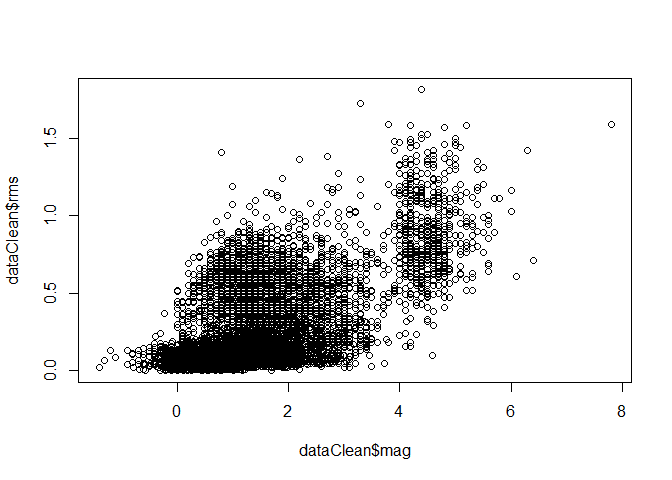
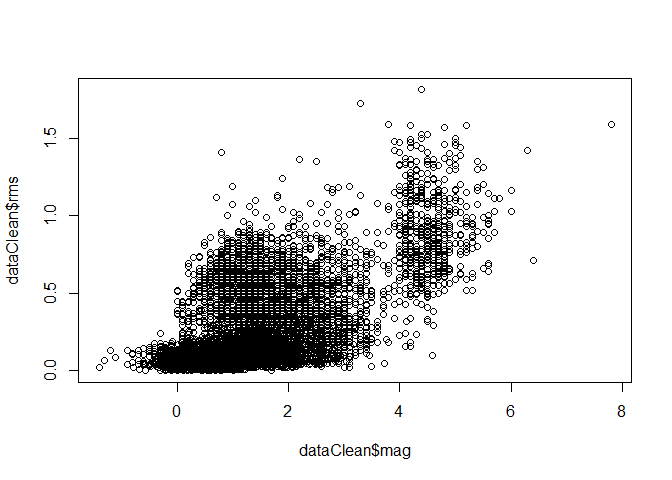
added summary and recommendations

diff --git a/README.md b/README.md
@@ -6,34 +6,34 @@ Data Exploration:
 
 ### lets check the head of the dataset
 
-    ##                       time latitude longitude  depth  mag magType nst gap
-    ## 1 2016-03-27T16:18:29.180Z 33.40767 -116.6085   5.46 0.61      ml  23  82
-    ## 2 2016-03-27T16:04:05.000Z 59.54310 -152.8073  69.40 1.60      ml  NA  NA
-    ## 3 2016-03-27T16:00:59.740Z 36.01450 -120.5742   2.74 0.84      md  12 124
-    ## 4 2016-03-27T15:56:28.000Z 63.06750 -151.7164   1.70 1.40      ml  NA  NA
-    ## 5 2016-03-27T15:48:27.820Z 14.99510  -94.6132  29.47 4.90      mb  NA 153
-    ## 6 2016-03-27T15:42:20.000Z 59.75310 -153.1117 104.60 2.90      ml  NA  NA
-    ##      dmin  rms net         id                  updated
-    ## 1 0.06836 0.11  ci ci37323479 2016-03-27T16:23:10.676Z
-    ## 2      NA 0.72  ak ak13105204 2016-03-27T16:36:35.528Z
-    ## 3 0.03087 0.05  nc nc72613510 2016-03-27T16:30:06.806Z
-    ## 4      NA 0.58  ak ak13105202 2016-03-27T16:36:36.772Z
-    ## 5 2.70700 0.70  us us20005cqq 2016-03-27T16:08:26.742Z
-    ## 6      NA 0.57  ak ak13104206 2016-03-27T16:37:23.504Z
-    ##                                      place       type horizontalError
-    ## 1             14km N of Warner Springs, CA earthquake            0.22
-    ## 2         60km WSW of Anchor Point, Alaska earthquake            0.40
-    ## 3          23km SW of Coalinga, California earthquake            0.39
-    ## 4            116km NW of Talkeetna, Alaska earthquake            0.50
-    ## 5 137km S of San Francisco del Mar, Mexico earthquake            8.60
-    ## 6           71km W of Anchor Point, Alaska earthquake            0.60
-    ##   depthError magError magNst    status locationSource magSource
-    ## 1       0.57    0.106     18 automatic             ci        ci
-    ## 2       0.60       NA     NA automatic             ak        ak
-    ## 3       0.99    0.440      5 automatic             nc        nc
-    ## 4       0.50       NA     NA automatic             ak        ak
-    ## 5       4.20    0.030    347  reviewed             us        us
-    ## 6       0.60       NA     NA automatic             ak        ak
+    ##                       time latitude longitude  depth  mag magType nst
+    ## 1 2016-03-29T08:30:59.000Z 60.26910 -141.7849  14.60 2.40      ml  NA
+    ## 2 2016-03-29T08:27:09.620Z 33.87683 -116.7792  -0.17 1.12      ml  14
+    ## 3 2016-03-29T08:18:34.090Z  5.49940  124.0900 526.87 4.80      mb  NA
+    ## 4 2016-03-29T08:12:55.850Z 38.83467 -122.8643   0.88 0.86      md   9
+    ## 5 2016-03-29T08:00:39.720Z 38.82200 -122.8450   1.79 1.03      md  18
+    ## 6 2016-03-29T07:54:10.474Z 38.47790 -118.3589   0.00 1.60      ml  10
+    ##      gap     dmin  rms net         id                  updated
+    ## 1     NA       NA 0.55  ak ak13135976 2016-03-29T08:46:50.587Z
+    ## 2 161.00 0.159700 0.31  ci ci37324047 2016-03-29T08:32:11.715Z
+    ## 3  76.00 5.468000 0.91  us us20005d4d 2016-03-29T08:36:45.323Z
+    ## 4 142.00 0.006287 0.01  nc nc72614210 2016-03-29T08:44:05.087Z
+    ## 5  76.00 0.007868 0.02  nc nc72614200 2016-03-29T08:21:06.032Z
+    ## 6  95.84 0.046000   NA  nn nn00538095 2016-03-29T07:56:18.452Z
+    ##                                place       type horizontalError depthError
+    ## 1  42km ENE of Cape Yakataga, Alaska earthquake            0.30       0.10
+    ## 2               5km S of Cabazon, CA earthquake            1.12      31.61
+    ## 3      74km SW of Mabay, Philippines earthquake            8.00       8.60
+    ## 4 11km NW of The Geysers, California earthquake            0.54       0.83
+    ## 5 9km WNW of The Geysers, California earthquake            0.25       0.43
+    ## 6      23km ESE of Hawthorne, Nevada earthquake              NA         NA
+    ##   magError magNst    status locationSource magSource
+    ## 1       NA     NA automatic             ak        ak
+    ## 2    0.400     23 automatic             ci        ci
+    ## 3    0.064     76  reviewed             us        us
+    ## 4    0.060      2 automatic             nc        nc
+    ## 5    0.010      6 automatic             nc        nc
+    ## 6    0.320      6 automatic             nn        nn
 
 as we can see we have 2 datetime columns 12 numeric columns and 8 textual columns
 one of the important things we can see is that we have missing values
@@ -42,186 +42,181 @@ one of the important things we can see is that we have missing values
 
     ## Earthquake_30Days 
     ## 
-    ##  22  Variables      8900  Observations
+    ##  22  Variables      9092  Observations
     ## ---------------------------------------------------------------------------
     ## time 
     ##       n missing  unique 
-    ##    8900       0    8894 
+    ##    9092       0    9086 
     ## 
-    ## lowest : 2016-02-26T16:46:32.000Z 2016-02-26T16:49:12.703Z 2016-02-26T17:01:42.320Z 2016-02-26T17:01:53.000Z 2016-02-26T17:11:39.200Z
-    ## highest: 2016-03-27T15:48:27.820Z 2016-03-27T15:56:28.000Z 2016-03-27T16:00:59.740Z 2016-03-27T16:04:05.000Z 2016-03-27T16:18:29.180Z 
+    ## lowest : 2016-02-28T08:55:23.900Z 2016-02-28T08:56:12.570Z 2016-02-28T09:06:25.870Z 2016-02-28T09:09:24.740Z 2016-02-28T09:14:30.500Z
+    ## highest: 2016-03-29T08:00:39.720Z 2016-03-29T08:12:55.850Z 2016-03-29T08:18:34.090Z 2016-03-29T08:27:09.620Z 2016-03-29T08:30:59.000Z 
     ## ---------------------------------------------------------------------------
     ## latitude 
     ##       n missing  unique    Info    Mean     .05     .10     .25     .50 
-    ##    8900       0    7584       1   41.25   17.99   29.64   36.45   38.80 
+    ##    9092       0    7706       1   41.78   18.33   32.89   36.47   38.81 
     ##     .75     .90     .95 
-    ##   53.71   62.70   63.60 
+    ##   54.65   62.83   63.69 
     ## 
-    ## lowest : -59.75 -59.75 -58.88 -57.76 -57.49
-    ## highest:  69.12  69.33  71.64  85.09  85.11 
+    ## lowest : -59.75 -58.88 -57.49 -56.52 -56.47
+    ## highest:  69.33  70.12  71.64  85.09  85.11 
     ## ---------------------------------------------------------------------------
     ## longitude 
     ##       n missing  unique    Info    Mean     .05     .10     .25     .50 
-    ##    8900       0    7787       1    -117 -161.65 -153.09 -148.54 -120.81 
+    ##    9092       0    7951       1  -118.6 -165.89 -153.29 -149.04 -121.53 
     ##     .75     .90     .95 
-    ## -116.95  -98.69  -64.78 
+    ## -117.30  -98.76  -65.66 
     ## 
-    ## lowest : -179.9 -179.9 -179.9 -179.8 -179.8
+    ## lowest : -179.9 -179.9 -179.9 -179.9 -179.8
     ## highest:  179.7  179.7  179.7  179.8  180.0 
     ## ---------------------------------------------------------------------------
     ## depth 
-    ##       n missing  unique    Info    Mean     .05     .10     .25     .50 
-    ##    8900       0    2955       1    23.3   0.099   1.290   3.009   7.085 
-    ##     .75     .90     .95 
-    ##  16.872  75.010 105.643 
+    ##        n  missing   unique     Info     Mean      .05      .10      .25 
+    ##     9092        0     2947        1    23.01   0.1322   1.3100   3.0600 
+    ##      .50      .75      .90      .95 
+    ##   7.0000  16.9000  74.4900 105.6000 
     ## 
-    ## lowest :  -3.41  -3.38  -3.35  -2.83  -2.21
-    ## highest: 612.36 615.38 637.27 643.28 672.03 
+    ## lowest :  -3.41  -3.38  -3.35  -2.83  -2.17
+    ## highest: 607.29 612.36 615.38 637.27 672.03 
     ## ---------------------------------------------------------------------------
     ## mag 
     ##       n missing  unique    Info    Mean     .05     .10     .25     .50 
-    ##    8839      61     385       1   1.441    0.10    0.30    0.67    1.20 
+    ##    9034      58     382       1    1.43    0.10    0.30    0.67    1.20 
     ##     .75     .90     .95 
-    ##    1.88    2.90    4.30 
+    ##    1.87    2.90    4.20 
     ## 
-    ## lowest : -1.4 -1.3 -1.2 -1.1 -0.9, highest:  6.0  6.1  6.3  6.4  7.8 
+    ## lowest : -1.4 -1.3 -1.2 -1.1 -0.9, highest:  5.8  6.0  6.3  6.4  7.8 
     ## ---------------------------------------------------------------------------
     ## magType 
     ##       n missing  unique 
-    ##    8900       0      15 
+    ##    9092       0      15 
     ## 
     ##               mb Mb mb_lg   md  Md mh   ml Ml mw mwb mwc mwp mwr mww
-    ## Frequency 61 575  2    98 2360 222  3 5546  1  2   2   1   1  17   9
-    ## %          1   6  0     1   27   2  0   62  0  0   0   0   0   0   0
+    ## Frequency 58 551  2    94 2425 184  2 5740  1  2   4   1   1  17  10
+    ## %          1   6  0     1   27   2  0   63  0  0   0   0   0   0   0
     ## ---------------------------------------------------------------------------
     ## nst 
     ##       n missing  unique    Info    Mean     .05     .10     .25     .50 
-    ##    5756    3144      92       1   16.33       4       5       7      11 
+    ##    5724    3368      93       1    16.4       4       5       7      11 
     ##     .75     .90     .95 
     ##      21      37      45 
     ## 
-    ## lowest :   3   4   5   6   7, highest:  96  97 112 113 121 
+    ## lowest :   3   4   5   6   7, highest: 112 113 121 127 143 
     ## ---------------------------------------------------------------------------
     ## gap 
     ##       n missing  unique    Info    Mean     .05     .10     .25     .50 
-    ##    6678    2222    1755       1   125.8    43.0    53.0    75.0   114.0 
+    ##    6623    2469    1747       1   124.9    43.0    53.0    75.0   114.0 
     ##     .75     .90     .95 
-    ##   158.0   223.2   261.3 
+    ##   155.0   220.6   257.4 
     ## 
     ## lowest :  14.0  15.0  17.0  18.0  19.0
     ## highest: 338.4 342.0 345.0 345.6 352.8 
     ## ---------------------------------------------------------------------------
     ## dmin 
     ##        n  missing   unique     Info     Mean      .05      .10      .25 
-    ##     6333     2567     4200        1   0.3898 0.005530 0.007847 0.020180 
+    ##     6354     2738     4195        1   0.3701 0.005424 0.007686 0.020000 
     ##      .50      .75      .90      .95 
-    ## 0.050000 0.146100 0.613400 1.955400 
+    ## 0.049000 0.143875 0.551900 1.830700 
     ## 
-    ## lowest : 2.920e-04 3.902e-04 4.255e-04 5.376e-04 5.610e-04
-    ## highest: 2.016e+01 2.026e+01 2.521e+01 3.147e+01 3.629e+01 
+    ## lowest : 2.920e-04 3.218e-04 3.902e-04 4.255e-04 5.610e-04
+    ## highest: 1.965e+01 2.016e+01 2.026e+01 3.147e+01 3.629e+01 
     ## ---------------------------------------------------------------------------
     ## rms 
     ##       n missing  unique    Info    Mean     .05     .10     .25     .50 
-    ##    8891       9    1144       1   0.277  0.0200  0.0300  0.0700  0.1575 
+    ##    9085       7    1148       1  0.2773    0.02    0.03    0.07    0.16 
     ##     .75     .90     .95 
-    ##  0.4400  0.6800  0.8300 
+    ##    0.44    0.68    0.82 
     ## 
     ## lowest : 0.0000 0.0003 0.0006 0.0011 0.0021
     ## highest: 1.5800 1.5900 1.7200 1.8100 1.8500 
     ## ---------------------------------------------------------------------------
     ## net 
     ##       n missing  unique 
-    ##    8900       0      14 
+    ##    9092       0      14 
     ## 
     ##             ak   ci  hv ismpkansas ld  mb   nc nm   nn  pr se  us  uu  uw
-    ## Frequency 2492 1039 215         14  4 160 1990 18 1469 223  4 953 124 195
-    ## %           28   12   2          0  0   2   22  0   17   3  0  11   1   2
+    ## Frequency 2663 1031 222         13  4 182 2045 20 1471 184  5 933 132 187
+    ## %           29   11   2          0  0   2   22  0   16   2  0  10   1   2
     ## ---------------------------------------------------------------------------
     ## id 
     ##       n missing  unique 
-    ##    8900       0    8900 
+    ##    9092       0    9092 
     ## 
-    ## lowest : ak12888989 ak12888993 ak12889514 ak12889518 ak12890032
-    ## highest: uw61133371 uw61133436 uw61133481 uw61133541 uw61133566 
+    ## lowest : ak12906248 ak12906250 ak12906904 ak12906907 ak12907586
+    ## highest: uw61133481 uw61133541 uw61133566 uw61136236 uw61136316 
     ## ---------------------------------------------------------------------------
     ## updated 
     ##       n missing  unique 
-    ##    8900       0    8900 
+    ##    9092       0    9092 
     ## 
-    ## lowest : 2016-02-26T17:54:04.366Z 2016-02-26T18:43:52.060Z 2016-02-26T18:58:45.591Z 2016-02-26T19:44:32.185Z 2016-02-26T19:54:19.515Z
-    ## highest: 2016-03-27T16:32:23.869Z 2016-03-27T16:35:32.366Z 2016-03-27T16:36:35.528Z 2016-03-27T16:36:36.772Z 2016-03-27T16:37:23.504Z 
+    ## lowest : 2016-02-28T09:53:04.589Z 2016-02-28T09:57:11.160Z 2016-02-28T11:39:10.014Z 2016-02-28T12:28:45.897Z 2016-02-28T13:05:53.630Z
+    ## highest: 2016-03-29T08:36:45.323Z 2016-03-29T08:41:03.462Z 2016-03-29T08:42:37.609Z 2016-03-29T08:44:05.087Z 2016-03-29T08:46:50.587Z 
     ## ---------------------------------------------------------------------------
     ## place 
     ##       n missing  unique 
-    ##    8900       0    5015 
+    ##    9092       0    5099 
     ## 
-    ## lowest : 0km E of San Ramon, California     0km ENE of Carson City, Nevada     0km ENE of Loma Linda, California  0km ENE of Quarry near Salinas, CA 0km ENE of The Geysers, California
-    ## highest: Southwest of Sumatra, Indonesia    Timor Sea                          West Chile Rise                    West of Macquarie Island           Western Indian-Antarctic Ridge     
+    ## lowest : 0km E of San Ramon, California     0km ENE of Carson City, Nevada     0km ENE of Loma Linda, California  0km ENE of Quarry near Salinas, CA 0km ENE of Ridgely, Tennessee     
+    ## highest: Southwest of Africa                Southwest of Sumatra, Indonesia    Timor Sea                          West Chile Rise                    West of Macquarie Island           
     ## ---------------------------------------------------------------------------
     ## type 
     ##       n missing  unique 
-    ##    8900       0       4 
+    ##    9092       0       4 
     ## 
-    ## earthquake (8766, 98%), explosion (33, 0%) 
-    ## not reported (2, 0%), quarry blast (99, 1%) 
+    ## earthquake (8963, 99%), explosion (31, 0%) 
+    ## not reported (1, 0%), quarry blast (97, 1%) 
     ## ---------------------------------------------------------------------------
     ## horizontalError 
     ##       n missing  unique    Info    Mean     .05     .10     .25     .50 
-    ##    8886      14     795       1   1.918    0.16    0.20    0.30    0.60 
+    ##    9081      11     804       1   1.906    0.16    0.20    0.30    0.60 
     ##     .75     .90     .95 
-    ##    1.90    5.90    8.50 
+    ##    1.87    5.86    8.50 
     ## 
     ## lowest :   0.09   0.10   0.11   0.12   0.13
-    ## highest:  51.70  75.07  78.54  88.11 146.11 
+    ## highest:  43.65  51.70  78.54  88.11 146.11 
     ## ---------------------------------------------------------------------------
     ## depthError 
     ##       n missing  unique    Info    Mean     .05     .10     .25     .50 
-    ##    8680     220     609       1   3.433    0.20    0.27    0.44    0.88 
+    ##    8865     227     613       1   3.426    0.20    0.27    0.43    0.87 
     ##     .75     .90     .95 
-    ##    3.60    8.00   12.30 
+    ##    3.52    8.00   12.25 
     ## 
     ## lowest :   0.00   0.09   0.10   0.11   0.12
-    ## highest: 106.70 113.50 136.20 289.70 563.70 
+    ## highest: 106.70 113.50 155.50 289.70 563.70 
     ## ---------------------------------------------------------------------------
     ## magError 
     ##       n missing  unique    Info    Mean     .05     .10     .25     .50 
-    ##    6123    2777     465       1   0.161  0.0000  0.0200  0.0790  0.1400 
+    ##    6148    2944     462       1  0.1598  0.0000  0.0240  0.0800  0.1400 
     ##     .75     .90     .95 
-    ##  0.2100  0.3058  0.3900 
+    ##  0.2100  0.3003  0.3800 
     ## 
-    ## lowest : 0.000 0.001 0.003 0.004 0.006
-    ## highest: 1.260 1.270 1.320 1.480 1.510 
+    ## lowest : 0.000 0.001 0.003 0.004 0.005
+    ## highest: 1.220 1.230 1.260 1.270 1.320 
     ## ---------------------------------------------------------------------------
     ## magNst 
     ##       n missing  unique    Info    Mean     .05     .10     .25     .50 
-    ##    6271    2629     196       1   16.61       1       2       3       7 
+    ##    6296    2796     195       1   16.53       1       2       3       6 
     ##     .75     .90     .95 
-    ##      17      32      59 
+    ##      17      33      60 
     ## 
     ## lowest :   0   1   2   3   4, highest: 490 494 509 580 724 
     ## ---------------------------------------------------------------------------
     ## status 
     ##       n missing  unique 
-    ##    8900       0       2 
+    ##    9092       0       2 
     ## 
-    ## automatic (1095, 12%), reviewed (7805, 88%) 
+    ## automatic (1073, 12%), reviewed (8019, 88%) 
     ## ---------------------------------------------------------------------------
     ## locationSource 
     ##       n missing  unique 
-    ##    8900       0      20 
+    ##    9092       0      21 
     ## 
-    ## lowest : ak  buc ci  guc hv , highest: se  tul us  uu  uw  
+    ## lowest : ak  buc ci  guc hv , highest: tul unm us  uu  uw  
     ## ---------------------------------------------------------------------------
     ## magSource 
     ##       n missing  unique 
-    ##    8900       0      19 
+    ##    9092       0      20 
     ## 
-    ##             ak buc   ci  hv ismp ld lim  mb   nc nm   nn oh ott  pr se tul
-    ## Frequency 2516   1 1039 215   16  4   1 161 1990 18 1470  1   2 223  4  38
-    ## %           28   0   12   2    0  0   0   2   22  0   17  0   0   3  0   0
-    ##            us  uu  uw
-    ## Frequency 882 124 195
-    ## %          10   1   2
+    ## lowest : ak   buc  ci   hv   ismp, highest: se   tul  us   uu   uw   
     ## ---------------------------------------------------------------------------
 
 we can see there are some columns that contains many missing values such as 'nst', 'gap', 'dmin, 'magError' and 'magNst' i will omit those columns and remove rows with missing data on the rest of the data so i can have clean data to work with and also filter the non earthquake records
@@ -239,21 +234,21 @@ Data Analysis:
 ### check correlation in the data columns
 
     ##                    latitude   longitude       depth         mag        rms
-    ## latitude         1.00000000 -0.55292342 -0.11844421 -0.38676247 0.04127045
-    ## longitude       -0.55292342  1.00000000  0.12273852  0.50891543 0.26950151
-    ## depth           -0.11844421  0.12273852  1.00000000  0.40648913 0.38025673
-    ## mag             -0.38676247  0.50891543  0.40648913  1.00000000 0.65110850
-    ## rms              0.04127045  0.26950151  0.38025673  0.65110850 1.00000000
-    ## horizontalError -0.34802903  0.37507046  0.26993445  0.36875933 0.27100070
-    ## depthError      -0.10154981  0.08884075  0.03589155  0.04896111 0.03125174
+    ## latitude         1.00000000 -0.55217925 -0.08980554 -0.35833857 0.06773478
+    ## longitude       -0.55217925  1.00000000  0.10827294  0.47968686 0.25084147
+    ## depth           -0.08980554  0.10827294  1.00000000  0.39619845 0.36920668
+    ## mag             -0.35833857  0.47968686  0.39619845  1.00000000 0.64906999
+    ## rms              0.06773478  0.25084147  0.36920668  0.64906999 1.00000000
+    ## horizontalError -0.32399112  0.35359081  0.24640973  0.35146482 0.25568540
+    ## depthError      -0.09762114  0.08540828  0.02541558  0.03475671 0.01549401
     ##                 horizontalError  depthError
-    ## latitude             -0.3480290 -0.10154981
-    ## longitude             0.3750705  0.08884075
-    ## depth                 0.2699345  0.03589155
-    ## mag                   0.3687593  0.04896111
-    ## rms                   0.2710007  0.03125174
-    ## horizontalError       1.0000000  0.30863526
-    ## depthError            0.3086353  1.00000000
+    ## latitude             -0.3239911 -0.09762114
+    ## longitude             0.3535908  0.08540828
+    ## depth                 0.2464097  0.02541558
+    ## mag                   0.3514648  0.03475671
+    ## rms                   0.2556854  0.01549401
+    ## horizontalError       1.0000000  0.32064543
+    ## depthError            0.3206454  1.00000000
 
 we can see that the rms and magnitude have the highest correlation which we could expect because it make sense that big earthquakes will move faster or be noticed faster then small ones.
 but still none of the correlation can be addressed as something out of the ordinary
@@ -293,4 +288,16 @@ here we can see something interesting, only earthquakes with magnitude of 4+ has
 lets check if there is some hour where earthquakes occure more frequently
 ![](README_files/figure-markdown_github/unnamed-chunk-12-1.png)<!-- -->
 
-we can see that around midnight there are little more earthquakes \#\# Summary and Recommendations:
+we can see that around midnight there are little more earthquakes
+
+Summary and Recommendations:
+----------------------------
+
+my conclusions are that it seems like there are some stations that reports on more events the others, maybe they have better technology.
+most of the earthquakes are in the "ring of fire" and they're the most severe ones.
+the stronger the magnitude the faster it travels which we can see in the RMS vs. magnitude scatter plot.
+events with deep source are mostly with pretty high magnitude probably because of significant movment of the continents.
+
+as for my recommendations for further research i suggest to:
+- try to predict sequence of events or maybe to look for casual relation between events that occurred in a small timeframe.
+- try to compare previous events and look for seasional trends and/or increase/decrease in the frequency of events
